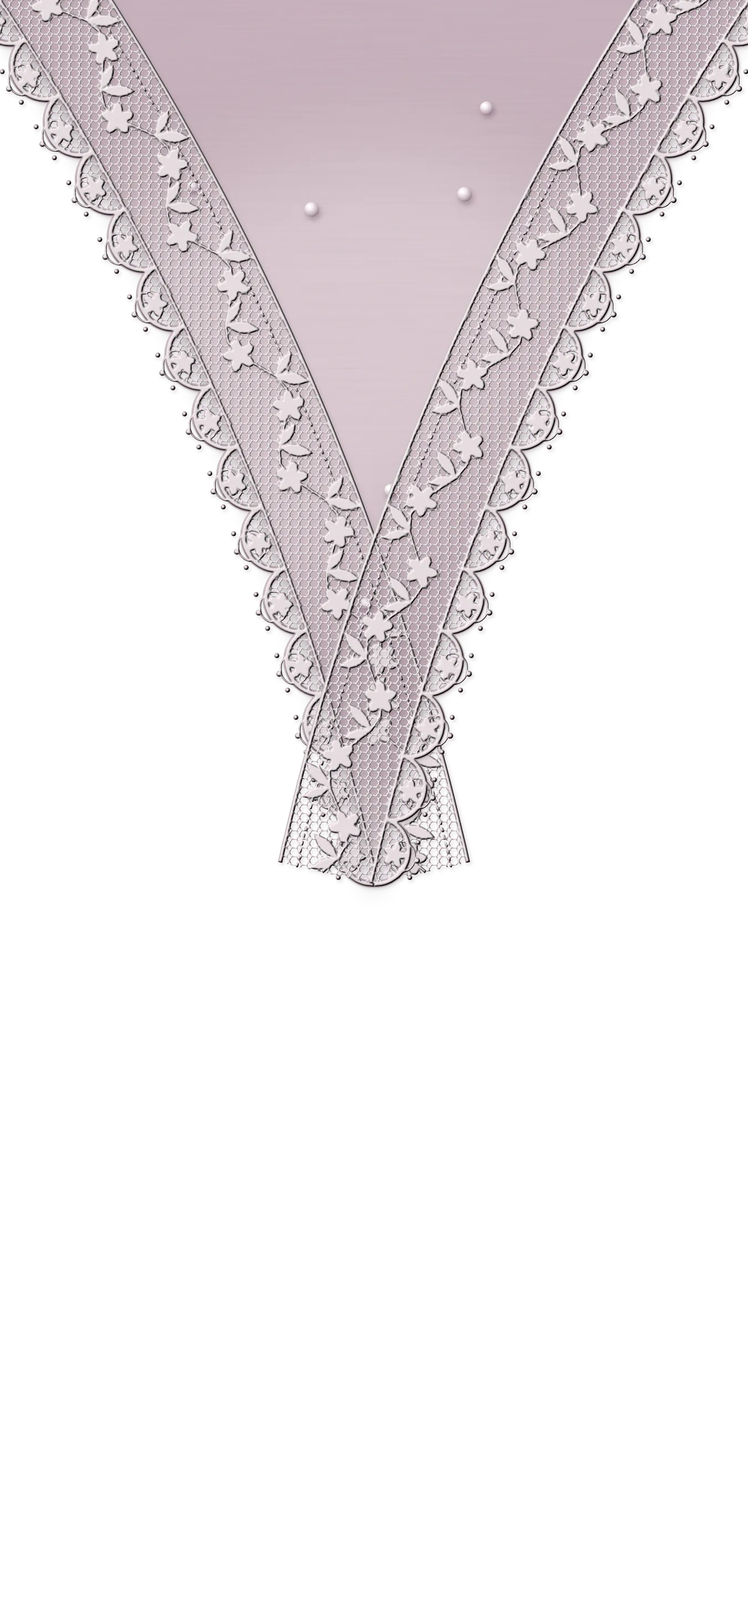
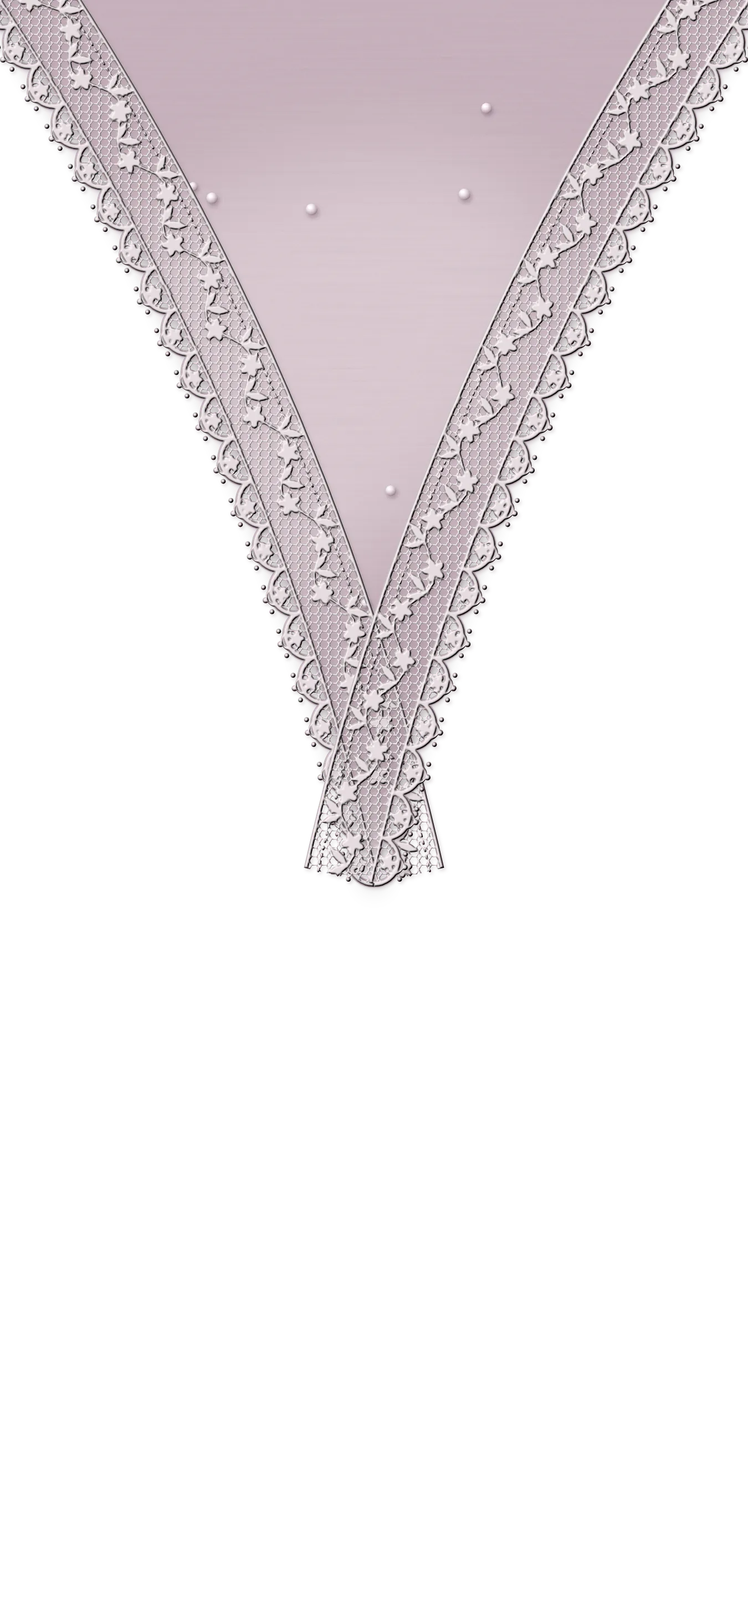
Slower, finer envelope opening: narrower lace, smaller seal and tag
Claude-Session: https://claude.ai/code/session_012TaZ8zuKBP6pkFoWipGzvm

Changed region(s): [[0.0, 0.0, 1.0, 0.56]]

diff --git a/janti/index.html b/janti/index.html
@@ -21,11 +21,11 @@ body.rd{overflow-y:auto}
 .fl img{pointer-events:none;user-select:none;-webkit-user-drag:none}.fl img.full{position:absolute;inset:0;width:100%;height:100%;object-fit:cover}
 .fl .shade{position:absolute;inset:0;background:#2a1220;opacity:0;pointer-events:none;-webkit-mask:var(--m) center/cover no-repeat;mask:var(--m) center/cover no-repeat}
 .fl.t{transform-origin:50% 0;z-index:4}.fl.b{transform-origin:50% 100%;z-index:3}.fl.l{transform-origin:0 50%;z-index:1}.fl.r{transform-origin:100% 50%;z-index:2}
-.seal{position:absolute;left:50%;top:50%;width:37.8%;height:auto;transform:translate(-50%,-50%);will-change:transform,opacity}.seal.sa{clip-path:polygon(0 0,57% 0,45% 20%,56% 38%,43% 58%,55% 78%,47% 100%,0 100%)}.seal.sb{clip-path:polygon(57% 0,100% 0,100% 100%,47% 100%,55% 78%,43% 58%,56% 38%,45% 20%)}
-.tag{position:absolute;left:50%;bottom:7.5%;transform:translateX(-50%);min-width:58%;max-width:82%;padding:12px 18px 11px;text-align:center;background:linear-gradient(#f6eff2,#e9dde3);border-radius:2px;box-shadow:0 0 0 1px #b9a0ad,0 0 0 4px #f3ebef,0 0 0 5px #b9a0ad88,0 10px 18px #3a1b2a55;color:var(--deep);display:none}
+.seal{position:absolute;left:50%;top:50%;width:29%;height:auto;transform:translate(-50%,-50%);will-change:transform,opacity}.seal.sa{clip-path:polygon(0 0,57% 0,45% 20%,56% 38%,43% 58%,55% 78%,47% 100%,0 100%)}.seal.sb{clip-path:polygon(57% 0,100% 0,100% 100%,47% 100%,55% 78%,43% 58%,56% 38%,45% 20%)}
+.tag{position:absolute;left:50%;bottom:8%;transform:translateX(-50%);min-width:46%;max-width:72%;padding:9px 14px 8px;text-align:center;background:linear-gradient(#f6eff2,#e9dde3);border-radius:2px;box-shadow:0 0 0 1px #b9a0ad,0 0 0 4px #f3ebef,0 0 0 5px #b9a0ad88,0 10px 18px #3a1b2a55;color:var(--deep);display:none}
 .tag:before{content:'';position:absolute;left:50%;top:-8px;width:10px;height:10px;margin-left:-5px;border-radius:50%;background:radial-gradient(circle at 35% 30%,#fff,#d8c8d0 45%,#9d8592);box-shadow:0 1px 2px #0005}
-.tag small{display:block;font:500 10.5px var(--bd);letter-spacing:.34em;text-transform:uppercase;color:#8a6f7d}
-.tag b{display:block;font:400 26px/1.15 var(--sc);color:var(--deep);overflow-wrap:anywhere}
+.tag small{display:block;font:500 9px var(--bd);letter-spacing:.34em;text-transform:uppercase;color:#8a6f7d}
+.tag b{display:block;font:400 21px/1.15 var(--sc);color:var(--deep);overflow-wrap:anywhere}
 .named .tag{display:block}
 .hint{position:absolute;left:0;right:0;bottom:2.4%;text-align:center;font:500 11px var(--bd);letter-spacing:.36em;text-transform:uppercase;color:#7a5f6d;z-index:6;transition:opacity .4s;animation:breathe 2.6s ease-in-out infinite;transform:translateZ(2px)}
 @keyframes breathe{50%{opacity:.4}}
@@ -242,19 +242,19 @@ function open(user){if(opened)return;if(!ready){want=user;return}opened=true;env
  var t=env.querySelector('.fl.t'),b=env.querySelector('.fl.b'),l=env.querySelector('.fl.l'),r=env.querySelector('.fl.r'),hero=$('hero'),bg=hero.querySelector('.bg');
  if(!env.animate){finish();return}
  var sa=env.querySelector('.seal.sa'),sb=env.querySelector('.seal.sb');
- an(sa,[{transform:'translate(-50%,-50%)',opacity:1},{transform:'translate(-50%,-50%) translate(-6px,2px) rotate(-4deg)',opacity:1,offset:.25},{transform:'translate(-50%,-50%) translate(-46px,30px) rotate(-26deg)',opacity:0}],{duration:800,easing:'cubic-bezier(.4,0,.6,1)'});
- an(sb,[{transform:'translate(-50%,-50%)',opacity:1},{transform:'translate(-50%,-50%) translate(6px,3px) rotate(4deg)',opacity:1,offset:.25},{transform:'translate(-50%,-50%) translate(48px,36px) rotate(24deg)',opacity:0}],{duration:800,easing:'cubic-bezier(.4,0,.6,1)'});
- var E2='cubic-bezier(.45,.02,.25,1)';
+ an(sa,[{transform:'translate(-50%,-50%)',opacity:1},{transform:'translate(-50%,-50%) translate(-4px,1px) rotate(-3deg)',opacity:1,offset:.3},{transform:'translate(-50%,-50%) translate(-40px,26px) rotate(-22deg)',opacity:0}],{duration:1300,easing:'cubic-bezier(.4,0,.5,1)'});
+ an(sb,[{transform:'translate(-50%,-50%)',opacity:1},{transform:'translate(-50%,-50%) translate(4px,2px) rotate(3deg)',opacity:1,offset:.3},{transform:'translate(-50%,-50%) translate(42px,30px) rotate(20deg)',opacity:0}],{duration:1300,easing:'cubic-bezier(.4,0,.5,1)'});
+ var E2='cubic-bezier(.42,0,.22,1)';
  function flip(el,axis,deg,z,delay,dur){var o={duration:dur,delay:delay,easing:E2};
   an(el,[{transform:'translateZ('+z+'px) rotate'+axis+'(0deg)'},{transform:'translateZ('+z+'px) rotate'+axis+'('+deg+'deg)'}],o);
   var f=el.querySelector('.fc .shd'),k=el.querySelector('.bk .shd');
   an(f,[{opacity:0},{opacity:.28,offset:.5},{opacity:.28}],o);an(k,[{opacity:.3},{opacity:.3,offset:.5},{opacity:.05}],o)}
- flip(t,'X',180,1.5,420,1350);
- flip(b,'X',-180,1,950,1300);
- flip(l,'Y',-180,0,1350,1300);flip(r,'Y',180,0,1430,1300);
- an(bg,[{transform:'scale(1.08)'},{transform:'scale(1)'}],{duration:2400,delay:900,easing:'cubic-bezier(.2,.7,.2,1)'});
- setTimeout(function(){hero.classList.add('in')},2300);
- setTimeout(finish,2900)}
+ flip(t,'X',180,1.5,700,2300);
+ flip(b,'X',-180,1,1700,2200);
+ flip(l,'Y',-180,0,2400,2200);flip(r,'Y',180,0,2550,2200);
+ an(bg,[{transform:'scale(1.08)'},{transform:'scale(1)'}],{duration:3600,delay:1400,easing:'cubic-bezier(.2,.7,.2,1)'});
+ setTimeout(function(){hero.classList.add('in')},4000);
+ setTimeout(finish,4900)}
 function finish(){document.body.classList.add('rd');if(window.startSpk)startSpk();secs[0].classList.add('in');env.style.display='none';if(io)for(var i=1;i<secs.length;i++)io.observe(secs[i]);else secs.forEach(function(s){s.classList.add('in')});par()}
 env.style.backgroundColor='transparent';
 env.addEventListener('click',function(){open(true)});

diff --git a/ne/janti/index.html b/ne/janti/index.html
@@ -21,11 +21,11 @@ body.rd{overflow-y:auto}
 .fl img{pointer-events:none;user-select:none;-webkit-user-drag:none}.fl img.full{position:absolute;inset:0;width:100%;height:100%;object-fit:cover}
 .fl .shade{position:absolute;inset:0;background:#2a1220;opacity:0;pointer-events:none;-webkit-mask:var(--m) center/cover no-repeat;mask:var(--m) center/cover no-repeat}
 .fl.t{transform-origin:50% 0;z-index:4}.fl.b{transform-origin:50% 100%;z-index:3}.fl.l{transform-origin:0 50%;z-index:1}.fl.r{transform-origin:100% 50%;z-index:2}
-.seal{position:absolute;left:50%;top:50%;width:37.8%;height:auto;transform:translate(-50%,-50%);will-change:transform,opacity}.seal.sa{clip-path:polygon(0 0,57% 0,45% 20%,56% 38%,43% 58%,55% 78%,47% 100%,0 100%)}.seal.sb{clip-path:polygon(57% 0,100% 0,100% 100%,47% 100%,55% 78%,43% 58%,56% 38%,45% 20%)}
-.tag{position:absolute;left:50%;bottom:7.5%;transform:translateX(-50%);min-width:58%;max-width:82%;padding:12px 18px 11px;text-align:center;background:linear-gradient(#f6eff2,#e9dde3);border-radius:2px;box-shadow:0 0 0 1px #b9a0ad,0 0 0 4px #f3ebef,0 0 0 5px #b9a0ad88,0 10px 18px #3a1b2a55;color:var(--deep);display:none}
+.seal{position:absolute;left:50%;top:50%;width:29%;height:auto;transform:translate(-50%,-50%);will-change:transform,opacity}.seal.sa{clip-path:polygon(0 0,57% 0,45% 20%,56% 38%,43% 58%,55% 78%,47% 100%,0 100%)}.seal.sb{clip-path:polygon(57% 0,100% 0,100% 100%,47% 100%,55% 78%,43% 58%,56% 38%,45% 20%)}
+.tag{position:absolute;left:50%;bottom:8%;transform:translateX(-50%);min-width:46%;max-width:72%;padding:9px 14px 8px;text-align:center;background:linear-gradient(#f6eff2,#e9dde3);border-radius:2px;box-shadow:0 0 0 1px #b9a0ad,0 0 0 4px #f3ebef,0 0 0 5px #b9a0ad88,0 10px 18px #3a1b2a55;color:var(--deep);display:none}
 .tag:before{content:'';position:absolute;left:50%;top:-8px;width:10px;height:10px;margin-left:-5px;border-radius:50%;background:radial-gradient(circle at 35% 30%,#fff,#d8c8d0 45%,#9d8592);box-shadow:0 1px 2px #0005}
-.tag small{display:block;font:500 10.5px var(--bd);letter-spacing:.34em;text-transform:uppercase;color:#8a6f7d}
-.tag b{display:block;font:400 26px/1.15 var(--sc);color:var(--deep);overflow-wrap:anywhere}
+.tag small{display:block;font:500 9px var(--bd);letter-spacing:.34em;text-transform:uppercase;color:#8a6f7d}
+.tag b{display:block;font:400 21px/1.15 var(--sc);color:var(--deep);overflow-wrap:anywhere}
 .named .tag{display:block}
 .hint{position:absolute;left:0;right:0;bottom:2.4%;text-align:center;font:500 11px var(--bd);letter-spacing:.36em;text-transform:uppercase;color:#7a5f6d;z-index:6;transition:opacity .4s;animation:breathe 2.6s ease-in-out infinite;transform:translateZ(2px)}
 @keyframes breathe{50%{opacity:.4}}
@@ -242,19 +242,19 @@ function open(user){if(opened)return;if(!ready){want=user;return}opened=true;env
  var t=env.querySelector('.fl.t'),b=env.querySelector('.fl.b'),l=env.querySelector('.fl.l'),r=env.querySelector('.fl.r'),hero=$('hero'),bg=hero.querySelector('.bg');
  if(!env.animate){finish();return}
  var sa=env.querySelector('.seal.sa'),sb=env.querySelector('.seal.sb');
- an(sa,[{transform:'translate(-50%,-50%)',opacity:1},{transform:'translate(-50%,-50%) translate(-6px,2px) rotate(-4deg)',opacity:1,offset:.25},{transform:'translate(-50%,-50%) translate(-46px,30px) rotate(-26deg)',opacity:0}],{duration:800,easing:'cubic-bezier(.4,0,.6,1)'});
- an(sb,[{transform:'translate(-50%,-50%)',opacity:1},{transform:'translate(-50%,-50%) translate(6px,3px) rotate(4deg)',opacity:1,offset:.25},{transform:'translate(-50%,-50%) translate(48px,36px) rotate(24deg)',opacity:0}],{duration:800,easing:'cubic-bezier(.4,0,.6,1)'});
- var E2='cubic-bezier(.45,.02,.25,1)';
+ an(sa,[{transform:'translate(-50%,-50%)',opacity:1},{transform:'translate(-50%,-50%) translate(-4px,1px) rotate(-3deg)',opacity:1,offset:.3},{transform:'translate(-50%,-50%) translate(-40px,26px) rotate(-22deg)',opacity:0}],{duration:1300,easing:'cubic-bezier(.4,0,.5,1)'});
+ an(sb,[{transform:'translate(-50%,-50%)',opacity:1},{transform:'translate(-50%,-50%) translate(4px,2px) rotate(3deg)',opacity:1,offset:.3},{transform:'translate(-50%,-50%) translate(42px,30px) rotate(20deg)',opacity:0}],{duration:1300,easing:'cubic-bezier(.4,0,.5,1)'});
+ var E2='cubic-bezier(.42,0,.22,1)';
  function flip(el,axis,deg,z,delay,dur){var o={duration:dur,delay:delay,easing:E2};
   an(el,[{transform:'translateZ('+z+'px) rotate'+axis+'(0deg)'},{transform:'translateZ('+z+'px) rotate'+axis+'('+deg+'deg)'}],o);
   var f=el.querySelector('.fc .shd'),k=el.querySelector('.bk .shd');
   an(f,[{opacity:0},{opacity:.28,offset:.5},{opacity:.28}],o);an(k,[{opacity:.3},{opacity:.3,offset:.5},{opacity:.05}],o)}
- flip(t,'X',180,1.5,420,1350);
- flip(b,'X',-180,1,950,1300);
- flip(l,'Y',-180,0,1350,1300);flip(r,'Y',180,0,1430,1300);
- an(bg,[{transform:'scale(1.08)'},{transform:'scale(1)'}],{duration:2400,delay:900,easing:'cubic-bezier(.2,.7,.2,1)'});
- setTimeout(function(){hero.classList.add('in')},2300);
- setTimeout(finish,2900)}
+ flip(t,'X',180,1.5,700,2300);
+ flip(b,'X',-180,1,1700,2200);
+ flip(l,'Y',-180,0,2400,2200);flip(r,'Y',180,0,2550,2200);
+ an(bg,[{transform:'scale(1.08)'},{transform:'scale(1)'}],{duration:3600,delay:1400,easing:'cubic-bezier(.2,.7,.2,1)'});
+ setTimeout(function(){hero.classList.add('in')},4000);
+ setTimeout(finish,4900)}
 function finish(){document.body.classList.add('rd');if(window.startSpk)startSpk();secs[0].classList.add('in');env.style.display='none';if(io)for(var i=1;i<secs.length;i++)io.observe(secs[i]);else secs.forEach(function(s){s.classList.add('in')});par()}
 env.style.backgroundColor='transparent';
 env.addEventListener('click',function(){open(true)});

diff --git a/ne/reception/index.html b/ne/reception/index.html
@@ -21,11 +21,11 @@ body.rd{overflow-y:auto}
 .fl img{pointer-events:none;user-select:none;-webkit-user-drag:none}.fl img.full{position:absolute;inset:0;width:100%;height:100%;object-fit:cover}
 .fl .shade{position:absolute;inset:0;background:#2a1220;opacity:0;pointer-events:none;-webkit-mask:var(--m) center/cover no-repeat;mask:var(--m) center/cover no-repeat}
 .fl.t{transform-origin:50% 0;z-index:4}.fl.b{transform-origin:50% 100%;z-index:3}.fl.l{transform-origin:0 50%;z-index:1}.fl.r{transform-origin:100% 50%;z-index:2}
-.seal{position:absolute;left:50%;top:50%;width:37.8%;height:auto;transform:translate(-50%,-50%);will-change:transform,opacity}.seal.sa{clip-path:polygon(0 0,57% 0,45% 20%,56% 38%,43% 58%,55% 78%,47% 100%,0 100%)}.seal.sb{clip-path:polygon(57% 0,100% 0,100% 100%,47% 100%,55% 78%,43% 58%,56% 38%,45% 20%)}
-.tag{position:absolute;left:50%;bottom:7.5%;transform:translateX(-50%);min-width:58%;max-width:82%;padding:12px 18px 11px;text-align:center;background:linear-gradient(#f6eff2,#e9dde3);border-radius:2px;box-shadow:0 0 0 1px #b9a0ad,0 0 0 4px #f3ebef,0 0 0 5px #b9a0ad88,0 10px 18px #3a1b2a55;color:var(--deep);display:none}
+.seal{position:absolute;left:50%;top:50%;width:29%;height:auto;transform:translate(-50%,-50%);will-change:transform,opacity}.seal.sa{clip-path:polygon(0 0,57% 0,45% 20%,56% 38%,43% 58%,55% 78%,47% 100%,0 100%)}.seal.sb{clip-path:polygon(57% 0,100% 0,100% 100%,47% 100%,55% 78%,43% 58%,56% 38%,45% 20%)}
+.tag{position:absolute;left:50%;bottom:8%;transform:translateX(-50%);min-width:46%;max-width:72%;padding:9px 14px 8px;text-align:center;background:linear-gradient(#f6eff2,#e9dde3);border-radius:2px;box-shadow:0 0 0 1px #b9a0ad,0 0 0 4px #f3ebef,0 0 0 5px #b9a0ad88,0 10px 18px #3a1b2a55;color:var(--deep);display:none}
 .tag:before{content:'';position:absolute;left:50%;top:-8px;width:10px;height:10px;margin-left:-5px;border-radius:50%;background:radial-gradient(circle at 35% 30%,#fff,#d8c8d0 45%,#9d8592);box-shadow:0 1px 2px #0005}
-.tag small{display:block;font:500 10.5px var(--bd);letter-spacing:.34em;text-transform:uppercase;color:#8a6f7d}
-.tag b{display:block;font:400 26px/1.15 var(--sc);color:var(--deep);overflow-wrap:anywhere}
+.tag small{display:block;font:500 9px var(--bd);letter-spacing:.34em;text-transform:uppercase;color:#8a6f7d}
+.tag b{display:block;font:400 21px/1.15 var(--sc);color:var(--deep);overflow-wrap:anywhere}
 .named .tag{display:block}
 .hint{position:absolute;left:0;right:0;bottom:2.4%;text-align:center;font:500 11px var(--bd);letter-spacing:.36em;text-transform:uppercase;color:#7a5f6d;z-index:6;transition:opacity .4s;animation:breathe 2.6s ease-in-out infinite;transform:translateZ(2px)}
 @keyframes breathe{50%{opacity:.4}}
@@ -242,19 +242,19 @@ function open(user){if(opened)return;if(!ready){want=user;return}opened=true;env
  var t=env.querySelector('.fl.t'),b=env.querySelector('.fl.b'),l=env.querySelector('.fl.l'),r=env.querySelector('.fl.r'),hero=$('hero'),bg=hero.querySelector('.bg');
  if(!env.animate){finish();return}
  var sa=env.querySelector('.seal.sa'),sb=env.querySelector('.seal.sb');
- an(sa,[{transform:'translate(-50%,-50%)',opacity:1},{transform:'translate(-50%,-50%) translate(-6px,2px) rotate(-4deg)',opacity:1,offset:.25},{transform:'translate(-50%,-50%) translate(-46px,30px) rotate(-26deg)',opacity:0}],{duration:800,easing:'cubic-bezier(.4,0,.6,1)'});
- an(sb,[{transform:'translate(-50%,-50%)',opacity:1},{transform:'translate(-50%,-50%) translate(6px,3px) rotate(4deg)',opacity:1,offset:.25},{transform:'translate(-50%,-50%) translate(48px,36px) rotate(24deg)',opacity:0}],{duration:800,easing:'cubic-bezier(.4,0,.6,1)'});
- var E2='cubic-bezier(.45,.02,.25,1)';
+ an(sa,[{transform:'translate(-50%,-50%)',opacity:1},{transform:'translate(-50%,-50%) translate(-4px,1px) rotate(-3deg)',opacity:1,offset:.3},{transform:'translate(-50%,-50%) translate(-40px,26px) rotate(-22deg)',opacity:0}],{duration:1300,easing:'cubic-bezier(.4,0,.5,1)'});
+ an(sb,[{transform:'translate(-50%,-50%)',opacity:1},{transform:'translate(-50%,-50%) translate(4px,2px) rotate(3deg)',opacity:1,offset:.3},{transform:'translate(-50%,-50%) translate(42px,30px) rotate(20deg)',opacity:0}],{duration:1300,easing:'cubic-bezier(.4,0,.5,1)'});
+ var E2='cubic-bezier(.42,0,.22,1)';
  function flip(el,axis,deg,z,delay,dur){var o={duration:dur,delay:delay,easing:E2};
   an(el,[{transform:'translateZ('+z+'px) rotate'+axis+'(0deg)'},{transform:'translateZ('+z+'px) rotate'+axis+'('+deg+'deg)'}],o);
   var f=el.querySelector('.fc .shd'),k=el.querySelector('.bk .shd');
   an(f,[{opacity:0},{opacity:.28,offset:.5},{opacity:.28}],o);an(k,[{opacity:.3},{opacity:.3,offset:.5},{opacity:.05}],o)}
- flip(t,'X',180,1.5,420,1350);
- flip(b,'X',-180,1,950,1300);
- flip(l,'Y',-180,0,1350,1300);flip(r,'Y',180,0,1430,1300);
- an(bg,[{transform:'scale(1.08)'},{transform:'scale(1)'}],{duration:2400,delay:900,easing:'cubic-bezier(.2,.7,.2,1)'});
- setTimeout(function(){hero.classList.add('in')},2300);
- setTimeout(finish,2900)}
+ flip(t,'X',180,1.5,700,2300);
+ flip(b,'X',-180,1,1700,2200);
+ flip(l,'Y',-180,0,2400,2200);flip(r,'Y',180,0,2550,2200);
+ an(bg,[{transform:'scale(1.08)'},{transform:'scale(1)'}],{duration:3600,delay:1400,easing:'cubic-bezier(.2,.7,.2,1)'});
+ setTimeout(function(){hero.classList.add('in')},4000);
+ setTimeout(finish,4900)}
 function finish(){document.body.classList.add('rd');if(window.startSpk)startSpk();secs[0].classList.add('in');env.style.display='none';if(io)for(var i=1;i<secs.length;i++)io.observe(secs[i]);else secs.forEach(function(s){s.classList.add('in')});par()}
 env.style.backgroundColor='transparent';
 env.addEventListener('click',function(){open(true)});

diff --git a/ne/wedding/index.html b/ne/wedding/index.html
@@ -21,11 +21,11 @@ body.rd{overflow-y:auto}
 .fl img{pointer-events:none;user-select:none;-webkit-user-drag:none}.fl img.full{position:absolute;inset:0;width:100%;height:100%;object-fit:cover}
 .fl .shade{position:absolute;inset:0;background:#2a1220;opacity:0;pointer-events:none;-webkit-mask:var(--m) center/cover no-repeat;mask:var(--m) center/cover no-repeat}
 .fl.t{transform-origin:50% 0;z-index:4}.fl.b{transform-origin:50% 100%;z-index:3}.fl.l{transform-origin:0 50%;z-index:1}.fl.r{transform-origin:100% 50%;z-index:2}
-.seal{position:absolute;left:50%;top:50%;width:37.8%;height:auto;transform:translate(-50%,-50%);will-change:transform,opacity}.seal.sa{clip-path:polygon(0 0,57% 0,45% 20%,56% 38%,43% 58%,55% 78%,47% 100%,0 100%)}.seal.sb{clip-path:polygon(57% 0,100% 0,100% 100%,47% 100%,55% 78%,43% 58%,56% 38%,45% 20%)}
-.tag{position:absolute;left:50%;bottom:7.5%;transform:translateX(-50%);min-width:58%;max-width:82%;padding:12px 18px 11px;text-align:center;background:linear-gradient(#f6eff2,#e9dde3);border-radius:2px;box-shadow:0 0 0 1px #b9a0ad,0 0 0 4px #f3ebef,0 0 0 5px #b9a0ad88,0 10px 18px #3a1b2a55;color:var(--deep);display:none}
+.seal{position:absolute;left:50%;top:50%;width:29%;height:auto;transform:translate(-50%,-50%);will-change:transform,opacity}.seal.sa{clip-path:polygon(0 0,57% 0,45% 20%,56% 38%,43% 58%,55% 78%,47% 100%,0 100%)}.seal.sb{clip-path:polygon(57% 0,100% 0,100% 100%,47% 100%,55% 78%,43% 58%,56% 38%,45% 20%)}
+.tag{position:absolute;left:50%;bottom:8%;transform:translateX(-50%);min-width:46%;max-width:72%;padding:9px 14px 8px;text-align:center;background:linear-gradient(#f6eff2,#e9dde3);border-radius:2px;box-shadow:0 0 0 1px #b9a0ad,0 0 0 4px #f3ebef,0 0 0 5px #b9a0ad88,0 10px 18px #3a1b2a55;color:var(--deep);display:none}
 .tag:before{content:'';position:absolute;left:50%;top:-8px;width:10px;height:10px;margin-left:-5px;border-radius:50%;background:radial-gradient(circle at 35% 30%,#fff,#d8c8d0 45%,#9d8592);box-shadow:0 1px 2px #0005}
-.tag small{display:block;font:500 10.5px var(--bd);letter-spacing:.34em;text-transform:uppercase;color:#8a6f7d}
-.tag b{display:block;font:400 26px/1.15 var(--sc);color:var(--deep);overflow-wrap:anywhere}
+.tag small{display:block;font:500 9px var(--bd);letter-spacing:.34em;text-transform:uppercase;color:#8a6f7d}
+.tag b{display:block;font:400 21px/1.15 var(--sc);color:var(--deep);overflow-wrap:anywhere}
 .named .tag{display:block}
 .hint{position:absolute;left:0;right:0;bottom:2.4%;text-align:center;font:500 11px var(--bd);letter-spacing:.36em;text-transform:uppercase;color:#7a5f6d;z-index:6;transition:opacity .4s;animation:breathe 2.6s ease-in-out infinite;transform:translateZ(2px)}
 @keyframes breathe{50%{opacity:.4}}
@@ -242,19 +242,19 @@ function open(user){if(opened)return;if(!ready){want=user;return}opened=true;env
  var t=env.querySelector('.fl.t'),b=env.querySelector('.fl.b'),l=env.querySelector('.fl.l'),r=env.querySelector('.fl.r'),hero=$('hero'),bg=hero.querySelector('.bg');
  if(!env.animate){finish();return}
  var sa=env.querySelector('.seal.sa'),sb=env.querySelector('.seal.sb');
- an(sa,[{transform:'translate(-50%,-50%)',opacity:1},{transform:'translate(-50%,-50%) translate(-6px,2px) rotate(-4deg)',opacity:1,offset:.25},{transform:'translate(-50%,-50%) translate(-46px,30px) rotate(-26deg)',opacity:0}],{duration:800,easing:'cubic-bezier(.4,0,.6,1)'});
- an(sb,[{transform:'translate(-50%,-50%)',opacity:1},{transform:'translate(-50%,-50%) translate(6px,3px) rotate(4deg)',opacity:1,offset:.25},{transform:'translate(-50%,-50%) translate(48px,36px) rotate(24deg)',opacity:0}],{duration:800,easing:'cubic-bezier(.4,0,.6,1)'});
- var E2='cubic-bezier(.45,.02,.25,1)';
+ an(sa,[{transform:'translate(-50%,-50%)',opacity:1},{transform:'translate(-50%,-50%) translate(-4px,1px) rotate(-3deg)',opacity:1,offset:.3},{transform:'translate(-50%,-50%) translate(-40px,26px) rotate(-22deg)',opacity:0}],{duration:1300,easing:'cubic-bezier(.4,0,.5,1)'});
+ an(sb,[{transform:'translate(-50%,-50%)',opacity:1},{transform:'translate(-50%,-50%) translate(4px,2px) rotate(3deg)',opacity:1,offset:.3},{transform:'translate(-50%,-50%) translate(42px,30px) rotate(20deg)',opacity:0}],{duration:1300,easing:'cubic-bezier(.4,0,.5,1)'});
+ var E2='cubic-bezier(.42,0,.22,1)';
  function flip(el,axis,deg,z,delay,dur){var o={duration:dur,delay:delay,easing:E2};
   an(el,[{transform:'translateZ('+z+'px) rotate'+axis+'(0deg)'},{transform:'translateZ('+z+'px) rotate'+axis+'('+deg+'deg)'}],o);
   var f=el.querySelector('.fc .shd'),k=el.querySelector('.bk .shd');
   an(f,[{opacity:0},{opacity:.28,offset:.5},{opacity:.28}],o);an(k,[{opacity:.3},{opacity:.3,offset:.5},{opacity:.05}],o)}
- flip(t,'X',180,1.5,420,1350);
- flip(b,'X',-180,1,950,1300);
- flip(l,'Y',-180,0,1350,1300);flip(r,'Y',180,0,1430,1300);
- an(bg,[{transform:'scale(1.08)'},{transform:'scale(1)'}],{duration:2400,delay:900,easing:'cubic-bezier(.2,.7,.2,1)'});
- setTimeout(function(){hero.classList.add('in')},2300);
- setTimeout(finish,2900)}
+ flip(t,'X',180,1.5,700,2300);
+ flip(b,'X',-180,1,1700,2200);
+ flip(l,'Y',-180,0,2400,2200);flip(r,'Y',180,0,2550,2200);
+ an(bg,[{transform:'scale(1.08)'},{transform:'scale(1)'}],{duration:3600,delay:1400,easing:'cubic-bezier(.2,.7,.2,1)'});
+ setTimeout(function(){hero.classList.add('in')},4000);
+ setTimeout(finish,4900)}
 function finish(){document.body.classList.add('rd');if(window.startSpk)startSpk();secs[0].classList.add('in');env.style.display='none';if(io)for(var i=1;i<secs.length;i++)io.observe(secs[i]);else secs.forEach(function(s){s.classList.add('in')});par()}
 env.style.backgroundColor='transparent';
 env.addEventListener('click',function(){open(true)});

diff --git a/reception/index.html b/reception/index.html
@@ -21,11 +21,11 @@ body.rd{overflow-y:auto}
 .fl img{pointer-events:none;user-select:none;-webkit-user-drag:none}.fl img.full{position:absolute;inset:0;width:100%;height:100%;object-fit:cover}
 .fl .shade{position:absolute;inset:0;background:#2a1220;opacity:0;pointer-events:none;-webkit-mask:var(--m) center/cover no-repeat;mask:var(--m) center/cover no-repeat}
 .fl.t{transform-origin:50% 0;z-index:4}.fl.b{transform-origin:50% 100%;z-index:3}.fl.l{transform-origin:0 50%;z-index:1}.fl.r{transform-origin:100% 50%;z-index:2}
-.seal{position:absolute;left:50%;top:50%;width:37.8%;height:auto;transform:translate(-50%,-50%);will-change:transform,opacity}.seal.sa{clip-path:polygon(0 0,57% 0,45% 20%,56% 38%,43% 58%,55% 78%,47% 100%,0 100%)}.seal.sb{clip-path:polygon(57% 0,100% 0,100% 100%,47% 100%,55% 78%,43% 58%,56% 38%,45% 20%)}
-.tag{position:absolute;left:50%;bottom:7.5%;transform:translateX(-50%);min-width:58%;max-width:82%;padding:12px 18px 11px;text-align:center;background:linear-gradient(#f6eff2,#e9dde3);border-radius:2px;box-shadow:0 0 0 1px #b9a0ad,0 0 0 4px #f3ebef,0 0 0 5px #b9a0ad88,0 10px 18px #3a1b2a55;color:var(--deep);display:none}
+.seal{position:absolute;left:50%;top:50%;width:29%;height:auto;transform:translate(-50%,-50%);will-change:transform,opacity}.seal.sa{clip-path:polygon(0 0,57% 0,45% 20%,56% 38%,43% 58%,55% 78%,47% 100%,0 100%)}.seal.sb{clip-path:polygon(57% 0,100% 0,100% 100%,47% 100%,55% 78%,43% 58%,56% 38%,45% 20%)}
+.tag{position:absolute;left:50%;bottom:8%;transform:translateX(-50%);min-width:46%;max-width:72%;padding:9px 14px 8px;text-align:center;background:linear-gradient(#f6eff2,#e9dde3);border-radius:2px;box-shadow:0 0 0 1px #b9a0ad,0 0 0 4px #f3ebef,0 0 0 5px #b9a0ad88,0 10px 18px #3a1b2a55;color:var(--deep);display:none}
 .tag:before{content:'';position:absolute;left:50%;top:-8px;width:10px;height:10px;margin-left:-5px;border-radius:50%;background:radial-gradient(circle at 35% 30%,#fff,#d8c8d0 45%,#9d8592);box-shadow:0 1px 2px #0005}
-.tag small{display:block;font:500 10.5px var(--bd);letter-spacing:.34em;text-transform:uppercase;color:#8a6f7d}
-.tag b{display:block;font:400 26px/1.15 var(--sc);color:var(--deep);overflow-wrap:anywhere}
+.tag small{display:block;font:500 9px var(--bd);letter-spacing:.34em;text-transform:uppercase;color:#8a6f7d}
+.tag b{display:block;font:400 21px/1.15 var(--sc);color:var(--deep);overflow-wrap:anywhere}
 .named .tag{display:block}
 .hint{position:absolute;left:0;right:0;bottom:2.4%;text-align:center;font:500 11px var(--bd);letter-spacing:.36em;text-transform:uppercase;color:#7a5f6d;z-index:6;transition:opacity .4s;animation:breathe 2.6s ease-in-out infinite;transform:translateZ(2px)}
 @keyframes breathe{50%{opacity:.4}}
@@ -242,19 +242,19 @@ function open(user){if(opened)return;if(!ready){want=user;return}opened=true;env
  var t=env.querySelector('.fl.t'),b=env.querySelector('.fl.b'),l=env.querySelector('.fl.l'),r=env.querySelector('.fl.r'),hero=$('hero'),bg=hero.querySelector('.bg');
  if(!env.animate){finish();return}
  var sa=env.querySelector('.seal.sa'),sb=env.querySelector('.seal.sb');
- an(sa,[{transform:'translate(-50%,-50%)',opacity:1},{transform:'translate(-50%,-50%) translate(-6px,2px) rotate(-4deg)',opacity:1,offset:.25},{transform:'translate(-50%,-50%) translate(-46px,30px) rotate(-26deg)',opacity:0}],{duration:800,easing:'cubic-bezier(.4,0,.6,1)'});
- an(sb,[{transform:'translate(-50%,-50%)',opacity:1},{transform:'translate(-50%,-50%) translate(6px,3px) rotate(4deg)',opacity:1,offset:.25},{transform:'translate(-50%,-50%) translate(48px,36px) rotate(24deg)',opacity:0}],{duration:800,easing:'cubic-bezier(.4,0,.6,1)'});
- var E2='cubic-bezier(.45,.02,.25,1)';
+ an(sa,[{transform:'translate(-50%,-50%)',opacity:1},{transform:'translate(-50%,-50%) translate(-4px,1px) rotate(-3deg)',opacity:1,offset:.3},{transform:'translate(-50%,-50%) translate(-40px,26px) rotate(-22deg)',opacity:0}],{duration:1300,easing:'cubic-bezier(.4,0,.5,1)'});
+ an(sb,[{transform:'translate(-50%,-50%)',opacity:1},{transform:'translate(-50%,-50%) translate(4px,2px) rotate(3deg)',opacity:1,offset:.3},{transform:'translate(-50%,-50%) translate(42px,30px) rotate(20deg)',opacity:0}],{duration:1300,easing:'cubic-bezier(.4,0,.5,1)'});
+ var E2='cubic-bezier(.42,0,.22,1)';
  function flip(el,axis,deg,z,delay,dur){var o={duration:dur,delay:delay,easing:E2};
   an(el,[{transform:'translateZ('+z+'px) rotate'+axis+'(0deg)'},{transform:'translateZ('+z+'px) rotate'+axis+'('+deg+'deg)'}],o);
   var f=el.querySelector('.fc .shd'),k=el.querySelector('.bk .shd');
   an(f,[{opacity:0},{opacity:.28,offset:.5},{opacity:.28}],o);an(k,[{opacity:.3},{opacity:.3,offset:.5},{opacity:.05}],o)}
- flip(t,'X',180,1.5,420,1350);
- flip(b,'X',-180,1,950,1300);
- flip(l,'Y',-180,0,1350,1300);flip(r,'Y',180,0,1430,1300);
- an(bg,[{transform:'scale(1.08)'},{transform:'scale(1)'}],{duration:2400,delay:900,easing:'cubic-bezier(.2,.7,.2,1)'});
- setTimeout(function(){hero.classList.add('in')},2300);
- setTimeout(finish,2900)}
+ flip(t,'X',180,1.5,700,2300);
+ flip(b,'X',-180,1,1700,2200);
+ flip(l,'Y',-180,0,2400,2200);flip(r,'Y',180,0,2550,2200);
+ an(bg,[{transform:'scale(1.08)'},{transform:'scale(1)'}],{duration:3600,delay:1400,easing:'cubic-bezier(.2,.7,.2,1)'});
+ setTimeout(function(){hero.classList.add('in')},4000);
+ setTimeout(finish,4900)}
 function finish(){document.body.classList.add('rd');if(window.startSpk)startSpk();secs[0].classList.add('in');env.style.display='none';if(io)for(var i=1;i<secs.length;i++)io.observe(secs[i]);else secs.forEach(function(s){s.classList.add('in')});par()}
 env.style.backgroundColor='transparent';
 env.addEventListener('click',function(){open(true)});

diff --git a/wedding/index.html b/wedding/index.html
@@ -21,11 +21,11 @@ body.rd{overflow-y:auto}
 .fl img{pointer-events:none;user-select:none;-webkit-user-drag:none}.fl img.full{position:absolute;inset:0;width:100%;height:100%;object-fit:cover}
 .fl .shade{position:absolute;inset:0;background:#2a1220;opacity:0;pointer-events:none;-webkit-mask:var(--m) center/cover no-repeat;mask:var(--m) center/cover no-repeat}
 .fl.t{transform-origin:50% 0;z-index:4}.fl.b{transform-origin:50% 100%;z-index:3}.fl.l{transform-origin:0 50%;z-index:1}.fl.r{transform-origin:100% 50%;z-index:2}
-.seal{position:absolute;left:50%;top:50%;width:37.8%;height:auto;transform:translate(-50%,-50%);will-change:transform,opacity}.seal.sa{clip-path:polygon(0 0,57% 0,45% 20%,56% 38%,43% 58%,55% 78%,47% 100%,0 100%)}.seal.sb{clip-path:polygon(57% 0,100% 0,100% 100%,47% 100%,55% 78%,43% 58%,56% 38%,45% 20%)}
-.tag{position:absolute;left:50%;bottom:7.5%;transform:translateX(-50%);min-width:58%;max-width:82%;padding:12px 18px 11px;text-align:center;background:linear-gradient(#f6eff2,#e9dde3);border-radius:2px;box-shadow:0 0 0 1px #b9a0ad,0 0 0 4px #f3ebef,0 0 0 5px #b9a0ad88,0 10px 18px #3a1b2a55;color:var(--deep);display:none}
+.seal{position:absolute;left:50%;top:50%;width:29%;height:auto;transform:translate(-50%,-50%);will-change:transform,opacity}.seal.sa{clip-path:polygon(0 0,57% 0,45% 20%,56% 38%,43% 58%,55% 78%,47% 100%,0 100%)}.seal.sb{clip-path:polygon(57% 0,100% 0,100% 100%,47% 100%,55% 78%,43% 58%,56% 38%,45% 20%)}
+.tag{position:absolute;left:50%;bottom:8%;transform:translateX(-50%);min-width:46%;max-width:72%;padding:9px 14px 8px;text-align:center;background:linear-gradient(#f6eff2,#e9dde3);border-radius:2px;box-shadow:0 0 0 1px #b9a0ad,0 0 0 4px #f3ebef,0 0 0 5px #b9a0ad88,0 10px 18px #3a1b2a55;color:var(--deep);display:none}
 .tag:before{content:'';position:absolute;left:50%;top:-8px;width:10px;height:10px;margin-left:-5px;border-radius:50%;background:radial-gradient(circle at 35% 30%,#fff,#d8c8d0 45%,#9d8592);box-shadow:0 1px 2px #0005}
-.tag small{display:block;font:500 10.5px var(--bd);letter-spacing:.34em;text-transform:uppercase;color:#8a6f7d}
-.tag b{display:block;font:400 26px/1.15 var(--sc);color:var(--deep);overflow-wrap:anywhere}
+.tag small{display:block;font:500 9px var(--bd);letter-spacing:.34em;text-transform:uppercase;color:#8a6f7d}
+.tag b{display:block;font:400 21px/1.15 var(--sc);color:var(--deep);overflow-wrap:anywhere}
 .named .tag{display:block}
 .hint{position:absolute;left:0;right:0;bottom:2.4%;text-align:center;font:500 11px var(--bd);letter-spacing:.36em;text-transform:uppercase;color:#7a5f6d;z-index:6;transition:opacity .4s;animation:breathe 2.6s ease-in-out infinite;transform:translateZ(2px)}
 @keyframes breathe{50%{opacity:.4}}
@@ -242,19 +242,19 @@ function open(user){if(opened)return;if(!ready){want=user;return}opened=true;env
  var t=env.querySelector('.fl.t'),b=env.querySelector('.fl.b'),l=env.querySelector('.fl.l'),r=env.querySelector('.fl.r'),hero=$('hero'),bg=hero.querySelector('.bg');
  if(!env.animate){finish();return}
  var sa=env.querySelector('.seal.sa'),sb=env.querySelector('.seal.sb');
- an(sa,[{transform:'translate(-50%,-50%)',opacity:1},{transform:'translate(-50%,-50%) translate(-6px,2px) rotate(-4deg)',opacity:1,offset:.25},{transform:'translate(-50%,-50%) translate(-46px,30px) rotate(-26deg)',opacity:0}],{duration:800,easing:'cubic-bezier(.4,0,.6,1)'});
- an(sb,[{transform:'translate(-50%,-50%)',opacity:1},{transform:'translate(-50%,-50%) translate(6px,3px) rotate(4deg)',opacity:1,offset:.25},{transform:'translate(-50%,-50%) translate(48px,36px) rotate(24deg)',opacity:0}],{duration:800,easing:'cubic-bezier(.4,0,.6,1)'});
- var E2='cubic-bezier(.45,.02,.25,1)';
+ an(sa,[{transform:'translate(-50%,-50%)',opacity:1},{transform:'translate(-50%,-50%) translate(-4px,1px) rotate(-3deg)',opacity:1,offset:.3},{transform:'translate(-50%,-50%) translate(-40px,26px) rotate(-22deg)',opacity:0}],{duration:1300,easing:'cubic-bezier(.4,0,.5,1)'});
+ an(sb,[{transform:'translate(-50%,-50%)',opacity:1},{transform:'translate(-50%,-50%) translate(4px,2px) rotate(3deg)',opacity:1,offset:.3},{transform:'translate(-50%,-50%) translate(42px,30px) rotate(20deg)',opacity:0}],{duration:1300,easing:'cubic-bezier(.4,0,.5,1)'});
+ var E2='cubic-bezier(.42,0,.22,1)';
  function flip(el,axis,deg,z,delay,dur){var o={duration:dur,delay:delay,easing:E2};
   an(el,[{transform:'translateZ('+z+'px) rotate'+axis+'(0deg)'},{transform:'translateZ('+z+'px) rotate'+axis+'('+deg+'deg)'}],o);
   var f=el.querySelector('.fc .shd'),k=el.querySelector('.bk .shd');
   an(f,[{opacity:0},{opacity:.28,offset:.5},{opacity:.28}],o);an(k,[{opacity:.3},{opacity:.3,offset:.5},{opacity:.05}],o)}
- flip(t,'X',180,1.5,420,1350);
- flip(b,'X',-180,1,950,1300);
- flip(l,'Y',-180,0,1350,1300);flip(r,'Y',180,0,1430,1300);
- an(bg,[{transform:'scale(1.08)'},{transform:'scale(1)'}],{duration:2400,delay:900,easing:'cubic-bezier(.2,.7,.2,1)'});
- setTimeout(function(){hero.classList.add('in')},2300);
- setTimeout(finish,2900)}
+ flip(t,'X',180,1.5,700,2300);
+ flip(b,'X',-180,1,1700,2200);
+ flip(l,'Y',-180,0,2400,2200);flip(r,'Y',180,0,2550,2200);
+ an(bg,[{transform:'scale(1.08)'},{transform:'scale(1)'}],{duration:3600,delay:1400,easing:'cubic-bezier(.2,.7,.2,1)'});
+ setTimeout(function(){hero.classList.add('in')},4000);
+ setTimeout(finish,4900)}
 function finish(){document.body.classList.add('rd');if(window.startSpk)startSpk();secs[0].classList.add('in');env.style.display='none';if(io)for(var i=1;i<secs.length;i++)io.observe(secs[i]);else secs.forEach(function(s){s.classList.add('in')});par()}
 env.style.backgroundColor='transparent';
 env.addEventListener('click',function(){open(true)});

diff --git a/_src/studio.html b/_src/studio.html
@@ -37,7 +37,7 @@ var DEFS='<defs>'+
 '<pattern id="lnet" width="6" height="5.2" patternUnits="userSpaceOnUse"><path d="M0 2.6L1.5 0H4.5L6 2.6L4.5 5.2H1.5Z" fill="none" stroke="#f3ebee" stroke-width=".7"/></pattern>'+
 '</defs>';
 
-function pearl(x,y,r){return '<circle cx="'+f(x+r*.25)+'" cy="'+f(y+r*.45)+'" r="'+f(r*1.05)+'" fill="#4a3040" opacity=".28" filter="url(#soft)" style="filter:blur('+f(r*.35)+'px)"/><circle cx="'+f(x)+'" cy="'+f(y)+'" r="'+f(r)+'" fill="url(#pearl)"/><circle cx="'+f(x-r*.35)+'" cy="'+f(y-r*.38)+'" r="'+f(r*.28)+'" fill="#fff" opacity=".85"/>'}
+function pearl(x,y,r){r=r*.8;return '<circle cx="'+f(x+r*.25)+'" cy="'+f(y+r*.45)+'" r="'+f(r*1.05)+'" fill="#4a3040" opacity=".28" filter="url(#soft)" style="filter:blur('+f(r*.35)+'px)"/><circle cx="'+f(x)+'" cy="'+f(y)+'" r="'+f(r)+'" fill="url(#pearl)"/><circle cx="'+f(x-r*.35)+'" cy="'+f(y-r*.38)+'" r="'+f(r*.28)+'" fill="#fff" opacity=".85"/>'}
 
 /* five-petal flower */
 function flower(x,y,r,rot){var s='';for(var i=0;i<5;i++){var a=rot+i*Math.PI*2/5,cx=x+Math.cos(a)*r*.62,cy=y+Math.sin(a)*r*.62;s+='<ellipse cx="'+f(cx)+'" cy="'+f(cy)+'" rx="'+f(r*.55)+'" ry="'+f(r*.38)+'" transform="rotate('+f(a*180/Math.PI)+' '+f(cx)+' '+f(cy)+')"/>'}return s+'<circle cx="'+f(x)+'" cy="'+f(y)+'" r="'+f(r*.28)+'"/>'}
@@ -144,8 +144,8 @@ function flap(A,B,X,id,tint,bow){var cen=P((A.x+B.x+X.x)/3,(A.y+B.y+X.y)/3);bow=
  c1=fix(c1);c2=fix(c2);
  var poly=c1.p.concat(c2.p.slice(1));
  var s='<g filter="url(#dropbig)"><g style="filter:brightness('+(tint||1)+')">'+satin(poly,id)+gather(poly,X,id)+'</g></g>';
- s+=scatterPearls(poly,X,6);
- s+=lace(c1,{r:21,w:58,sprigs:false,rich:true})+lace(c2,{r:21,w:58,sprigs:false,rich:true});
+ s+=scatterPearls(poly,X,7);
+ s+=lace(c1,{r:15,w:42,sprigs:false,rich:true})+lace(c2,{r:15,w:42,sprigs:false,rich:true});
  return s}
 /* soft gathered tulle radiating from the apex (under the seal) */
 function gather(poly,X,id){var s='<g clip-path="url(#c'+id+')">';

diff --git a/_src/build.py b/_src/build.py
@@ -97,11 +97,11 @@ body.rd{overflow-y:auto}
 .fl img{pointer-events:none;user-select:none;-webkit-user-drag:none}.fl img.full{position:absolute;inset:0;width:100%;height:100%;object-fit:cover}
 .fl .shade{position:absolute;inset:0;background:#2a1220;opacity:0;pointer-events:none;-webkit-mask:var(--m) center/cover no-repeat;mask:var(--m) center/cover no-repeat}
 .fl.t{transform-origin:50% 0;z-index:4}.fl.b{transform-origin:50% 100%;z-index:3}.fl.l{transform-origin:0 50%;z-index:1}.fl.r{transform-origin:100% 50%;z-index:2}
-.seal{position:absolute;left:50%;top:50%;width:37.8%;height:auto;transform:translate(-50%,-50%);will-change:transform,opacity}.seal.sa{clip-path:polygon(0 0,57% 0,45% 20%,56% 38%,43% 58%,55% 78%,47% 100%,0 100%)}.seal.sb{clip-path:polygon(57% 0,100% 0,100% 100%,47% 100%,55% 78%,43% 58%,56% 38%,45% 20%)}
-.tag{position:absolute;left:50%;bottom:7.5%;transform:translateX(-50%);min-width:58%;max-width:82%;padding:12px 18px 11px;text-align:center;background:linear-gradient(#f6eff2,#e9dde3);border-radius:2px;box-shadow:0 0 0 1px #b9a0ad,0 0 0 4px #f3ebef,0 0 0 5px #b9a0ad88,0 10px 18px #3a1b2a55;color:var(--deep);display:none}
+.seal{position:absolute;left:50%;top:50%;width:29%;height:auto;transform:translate(-50%,-50%);will-change:transform,opacity}.seal.sa{clip-path:polygon(0 0,57% 0,45% 20%,56% 38%,43% 58%,55% 78%,47% 100%,0 100%)}.seal.sb{clip-path:polygon(57% 0,100% 0,100% 100%,47% 100%,55% 78%,43% 58%,56% 38%,45% 20%)}
+.tag{position:absolute;left:50%;bottom:8%;transform:translateX(-50%);min-width:46%;max-width:72%;padding:9px 14px 8px;text-align:center;background:linear-gradient(#f6eff2,#e9dde3);border-radius:2px;box-shadow:0 0 0 1px #b9a0ad,0 0 0 4px #f3ebef,0 0 0 5px #b9a0ad88,0 10px 18px #3a1b2a55;color:var(--deep);display:none}
 .tag:before{content:'';position:absolute;left:50%;top:-8px;width:10px;height:10px;margin-left:-5px;border-radius:50%;background:radial-gradient(circle at 35% 30%,#fff,#d8c8d0 45%,#9d8592);box-shadow:0 1px 2px #0005}
-.tag small{display:block;font:500 10.5px var(--bd);letter-spacing:.34em;text-transform:uppercase;color:#8a6f7d}
-.tag b{display:block;font:400 26px/1.15 var(--sc);color:var(--deep);overflow-wrap:anywhere}
+.tag small{display:block;font:500 9px var(--bd);letter-spacing:.34em;text-transform:uppercase;color:#8a6f7d}
+.tag b{display:block;font:400 21px/1.15 var(--sc);color:var(--deep);overflow-wrap:anywhere}
 .named .tag{display:block}
 .hint{position:absolute;left:0;right:0;bottom:2.4%;text-align:center;font:500 11px var(--bd);letter-spacing:.36em;text-transform:uppercase;color:#7a5f6d;z-index:6;transition:opacity .4s;animation:breathe 2.6s ease-in-out infinite;transform:translateZ(2px)}
 @keyframes breathe{50%{opacity:.4}}
@@ -369,19 +369,19 @@ function open(user){if(opened)return;if(!ready){want=user;return}opened=true;env
  var t=env.querySelector('.fl.t'),b=env.querySelector('.fl.b'),l=env.querySelector('.fl.l'),r=env.querySelector('.fl.r'),hero=$('hero'),bg=hero.querySelector('.bg');
  if(!env.animate){finish();return}
  var sa=env.querySelector('.seal.sa'),sb=env.querySelector('.seal.sb');
- an(sa,[{transform:'translate(-50%,-50%)',opacity:1},{transform:'translate(-50%,-50%) translate(-6px,2px) rotate(-4deg)',opacity:1,offset:.25},{transform:'translate(-50%,-50%) translate(-46px,30px) rotate(-26deg)',opacity:0}],{duration:800,easing:'cubic-bezier(.4,0,.6,1)'});
- an(sb,[{transform:'translate(-50%,-50%)',opacity:1},{transform:'translate(-50%,-50%) translate(6px,3px) rotate(4deg)',opacity:1,offset:.25},{transform:'translate(-50%,-50%) translate(48px,36px) rotate(24deg)',opacity:0}],{duration:800,easing:'cubic-bezier(.4,0,.6,1)'});
- var E2='cubic-bezier(.45,.02,.25,1)';
+ an(sa,[{transform:'translate(-50%,-50%)',opacity:1},{transform:'translate(-50%,-50%) translate(-4px,1px) rotate(-3deg)',opacity:1,offset:.3},{transform:'translate(-50%,-50%) translate(-40px,26px) rotate(-22deg)',opacity:0}],{duration:1300,easing:'cubic-bezier(.4,0,.5,1)'});
+ an(sb,[{transform:'translate(-50%,-50%)',opacity:1},{transform:'translate(-50%,-50%) translate(4px,2px) rotate(3deg)',opacity:1,offset:.3},{transform:'translate(-50%,-50%) translate(42px,30px) rotate(20deg)',opacity:0}],{duration:1300,easing:'cubic-bezier(.4,0,.5,1)'});
+ var E2='cubic-bezier(.42,0,.22,1)';
  function flip(el,axis,deg,z,delay,dur){var o={duration:dur,delay:delay,easing:E2};
   an(el,[{transform:'translateZ('+z+'px) rotate'+axis+'(0deg)'},{transform:'translateZ('+z+'px) rotate'+axis+'('+deg+'deg)'}],o);
   var f=el.querySelector('.fc .shd'),k=el.querySelector('.bk .shd');
   an(f,[{opacity:0},{opacity:.28,offset:.5},{opacity:.28}],o);an(k,[{opacity:.3},{opacity:.3,offset:.5},{opacity:.05}],o)}
- flip(t,'X',180,1.5,420,1350);
- flip(b,'X',-180,1,950,1300);
- flip(l,'Y',-180,0,1350,1300);flip(r,'Y',180,0,1430,1300);
- an(bg,[{transform:'scale(1.08)'},{transform:'scale(1)'}],{duration:2400,delay:900,easing:'cubic-bezier(.2,.7,.2,1)'});
- setTimeout(function(){hero.classList.add('in')},2300);
- setTimeout(finish,2900)}
+ flip(t,'X',180,1.5,700,2300);
+ flip(b,'X',-180,1,1700,2200);
+ flip(l,'Y',-180,0,2400,2200);flip(r,'Y',180,0,2550,2200);
+ an(bg,[{transform:'scale(1.08)'},{transform:'scale(1)'}],{duration:3600,delay:1400,easing:'cubic-bezier(.2,.7,.2,1)'});
+ setTimeout(function(){hero.classList.add('in')},4000);
+ setTimeout(finish,4900)}
 function finish(){document.body.classList.add('rd');if(window.startSpk)startSpk();secs[0].classList.add('in');env.style.display='none';if(io)for(var i=1;i<secs.length;i++)io.observe(secs[i]);else secs.forEach(function(s){s.classList.add('in')});par()}
 env.style.backgroundColor='transparent';
 env.addEventListener('click',function(){open(true)});
